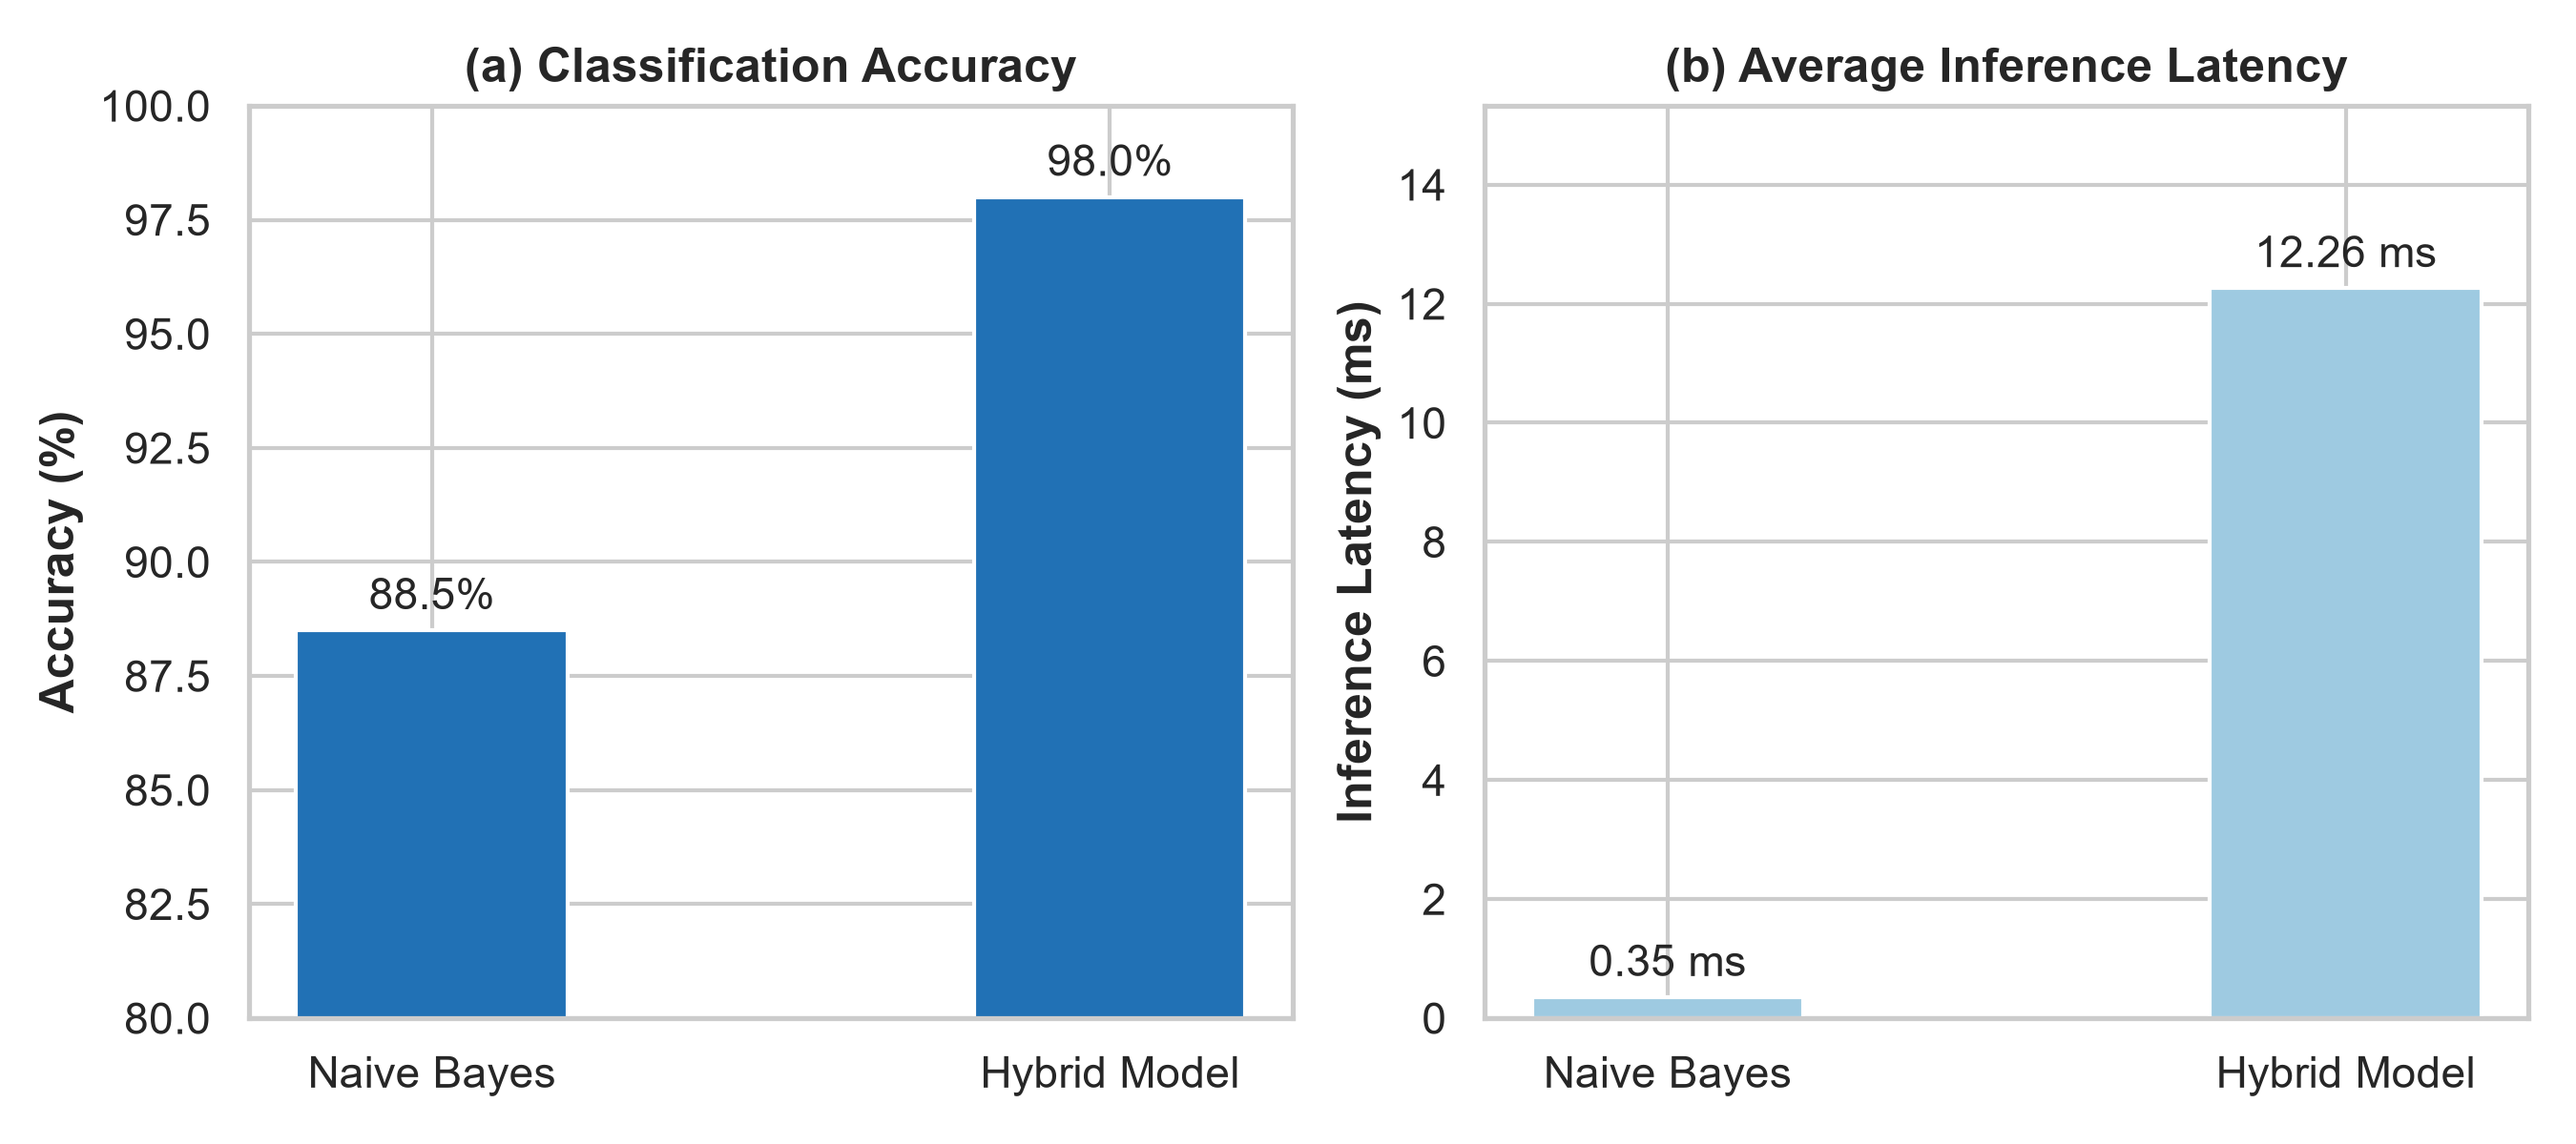
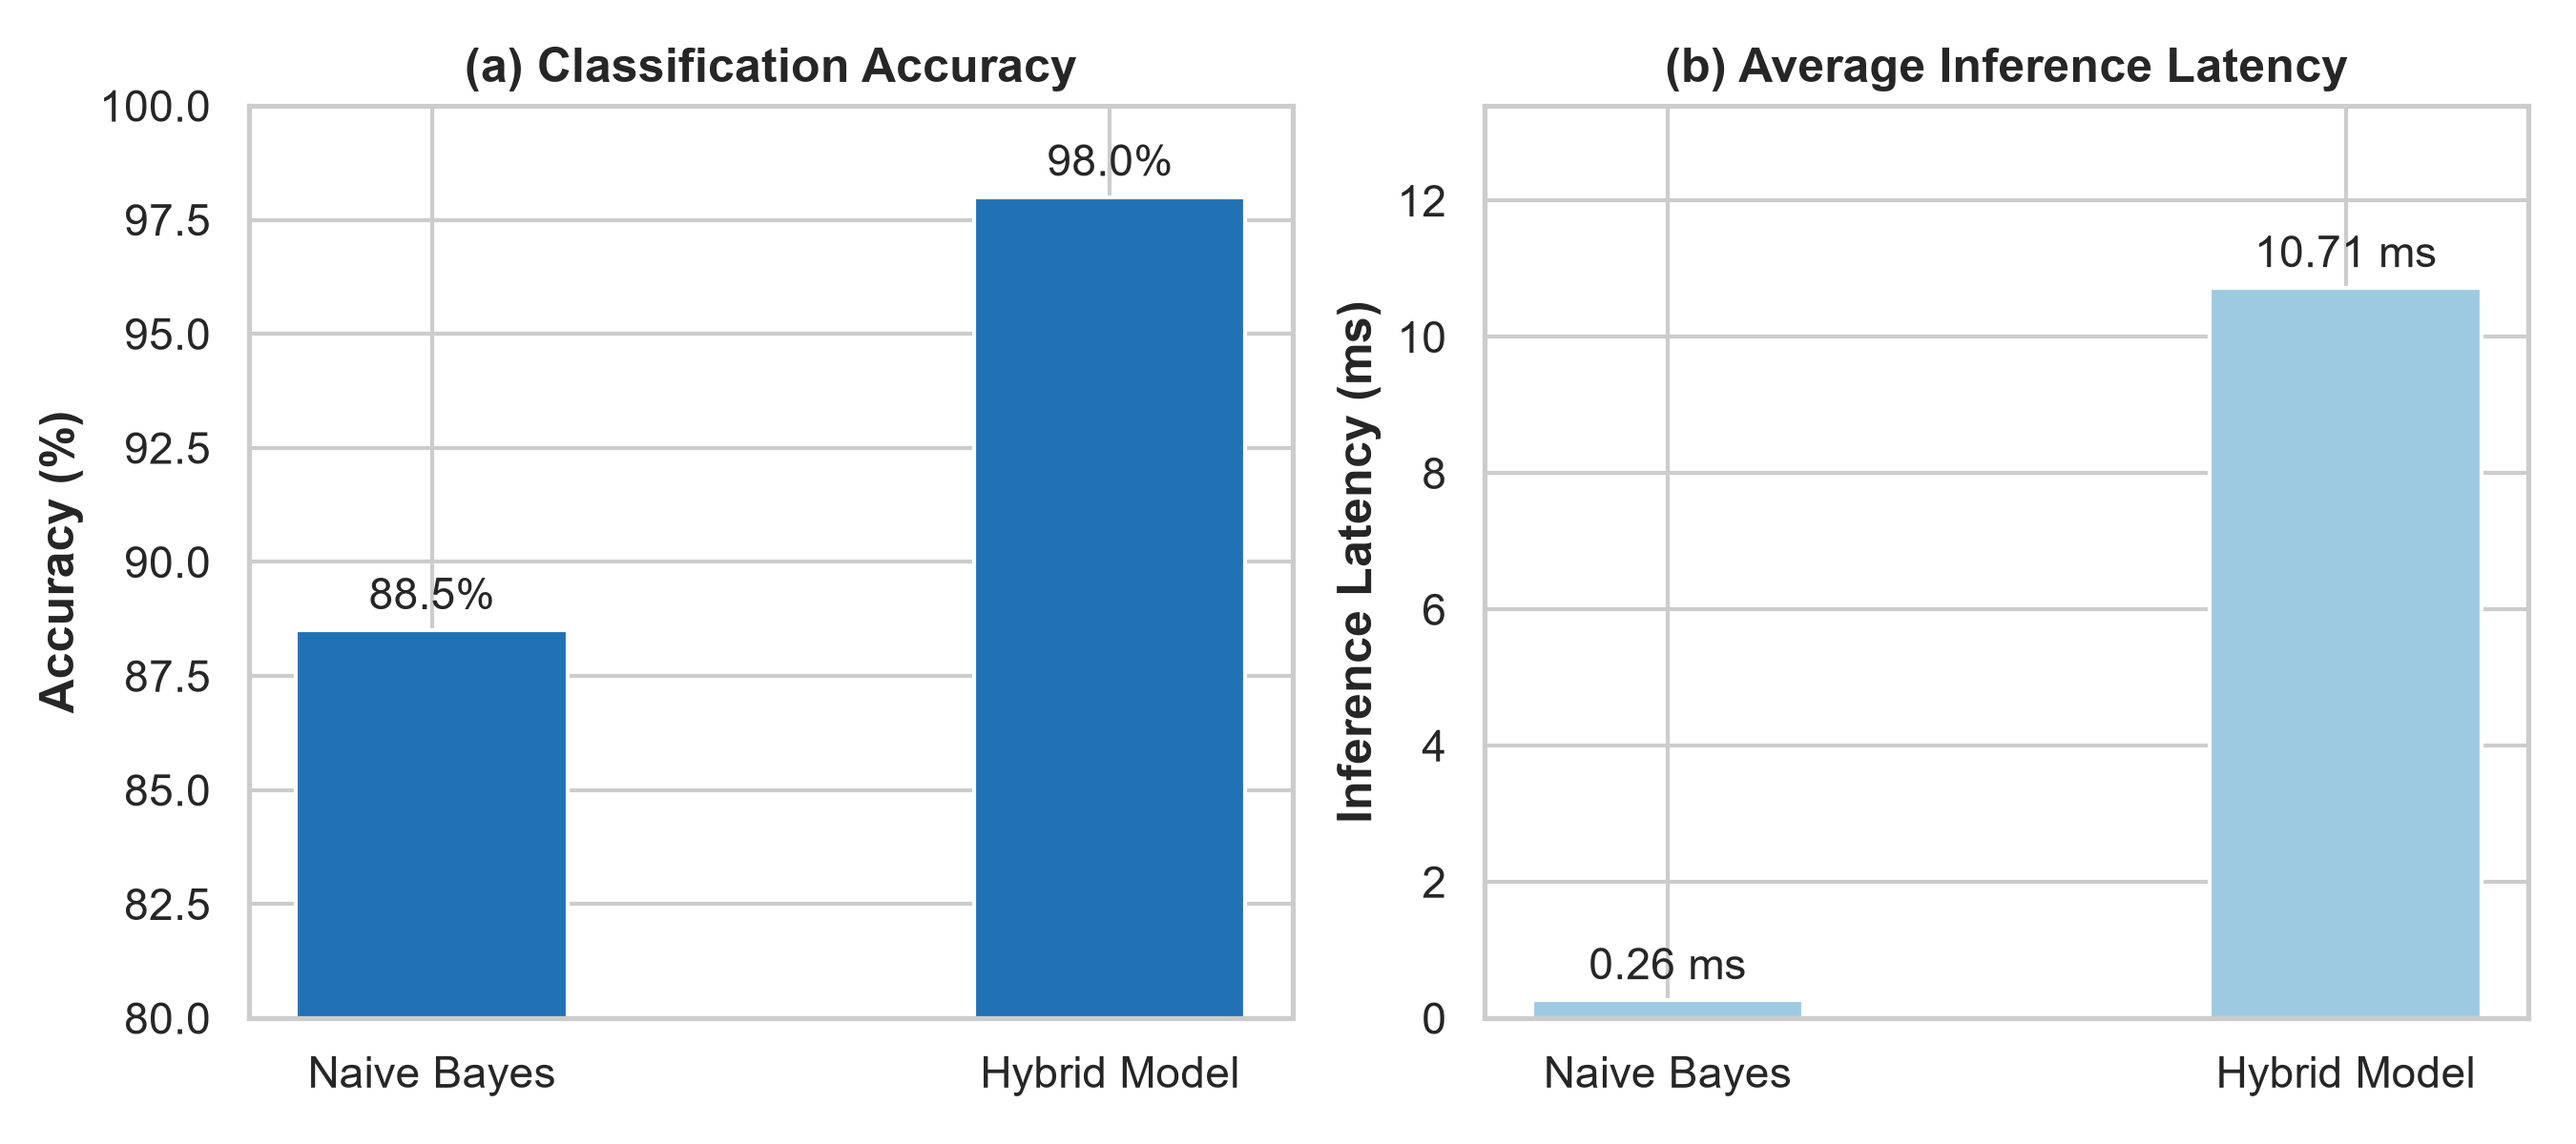
update evaluate and plot

diff --git a/evaluate_and_plot.py b/evaluate_and_plot.py
@@ -11,15 +11,12 @@ from sklearn.metrics import (
     confusion_matrix
 )
 
-# Import the project's real intent prediction function.
 from src.chatbot.intent_classifier import predict_class
 from src.chatbot.paths import INTENTS_PATH
 
-# ------------------------------------------------------------------------------
-# 1. Load the labeled evaluation data used by the chatbot
-# ------------------------------------------------------------------------------
+
 def load_test_dataset():
-    """Use every labeled pattern in intents.json as a ground-truth example."""
+    """Load intent patterns and normalize target class names."""
     with Path(INTENTS_PATH).open("r", encoding="utf-8") as file:
         intent_config = json.load(file)
 
@@ -28,52 +25,43 @@ def load_test_dataset():
         tag = intent.get("tag")
         for pattern in intent.get("patterns", []):
             if isinstance(pattern, str) and pattern.strip() and tag:
-                dataset.append((pattern, tag))
+                dataset.append((pattern, tag.lower()))
 
     if not dataset:
         raise ValueError(f"No labeled patterns found in {INTENTS_PATH}")
 
-    return dataset, [intent["tag"] for intent in intent_config["intents"]]
+    intent_classes = [intent["tag"].lower() for intent in intent_config["intents"]]
+    return dataset, intent_classes
 
 
 TEST_DATASET, INTENT_CLASSES = load_test_dataset()
 
-# ------------------------------------------------------------------------------
-# 2. Dynamic inference and evaluation function
-# ------------------------------------------------------------------------------
-def evaluate_model(algorithm_name):
-    y_true = []
-    y_pred = []
-    latencies = []
 
-    print(f"⏳ Running dynamic evaluation for algorithm: '{algorithm_name}'...")
+def evaluate_model(algorithm_name):
+    """Evaluate accuracy, macro metrics, per-class F1, and latency."""
+    y_true, y_pred, latencies = [], [], []
+
+    print(f"Evaluating algorithm: '{algorithm_name}'...")
 
     for query, true_intent in TEST_DATASET:
-        # Measure the exact runtime in milliseconds.
         start_time = time.perf_counter()
         predictions = predict_class(query, algorithm=algorithm_name)
         end_time = time.perf_counter()
         
-        latency_ms = (end_time - start_time) * 1000
+        latencies.append((end_time - start_time) * 1000)
+        pred_intent = predictions[0][0] if predictions else "n/a"
 
-        pred_intent = predictions[0][0] if predictions else "N/A"
-
-        y_true.append(true_intent.lower())
+        y_true.append(str(true_intent).lower())
         y_pred.append(str(pred_intent).lower())
-        latencies.append(latency_ms)
 
-    # Calculate metrics from the live predictions.
     acc = accuracy_score(y_true, y_pred)
-    prec, rec, f1, _ = precision_recall_fscore_support(y_true, y_pred, average="macro", zero_division=0)
-    
-    # Calculate the F1 score for each intent class.
+    prec, rec, f1, _ = precision_recall_fscore_support(
+        y_true, y_pred, labels=INTENT_CLASSES, average="macro", zero_division=0
+    )
     _, _, f1_per_class, _ = precision_recall_fscore_support(
         y_true, y_pred, labels=INTENT_CLASSES, average=None, zero_division=0
     )
-    
-    # Calculate the normalized confusion matrix.
     cm = confusion_matrix(y_true, y_pred, labels=INTENT_CLASSES, normalize="true")
-    avg_latency = np.mean(latencies)
 
     return {
         "acc": acc,
@@ -82,26 +70,25 @@ def evaluate_model(algorithm_name):
         "f1": f1,
         "f1_per_class": f1_per_class,
         "cm": cm,
-        "avg_latency": avg_latency
+        "avg_latency": np.mean(latencies)
     }
 
-# ------------------------------------------------------------------------------
-# 3. Run the live evaluation
-# ------------------------------------------------------------------------------
+
+# Execute evaluation
 nb_res = evaluate_model("nb")
 hybrid_res = evaluate_model("hybrid")
 
-print("\n=== Summary of Measured Results ===")
-print(f"Naive Bayes -> Acc: {nb_res['acc']:.3f}, Latency: {nb_res['avg_latency']:.2f} ms")
-print(f"Hybrid Model -> Acc: {hybrid_res['acc']:.3f}, Latency: {hybrid_res['avg_latency']:.2f} ms\n")
+print("\n=== Summary of Results ===")
+print(f"Naive Bayes -> Acc: {nb_res['acc']:.3f}, Macro F1: {nb_res['f1']:.3f}, Latency: {nb_res['avg_latency']:.2f} ms")
+print(f"Hybrid Model -> Acc: {hybrid_res['acc']:.3f}, Macro F1: {hybrid_res['f1']:.3f}, Latency: {hybrid_res['avg_latency']:.2f} ms\n")
 
-# ------------------------------------------------------------------------------
-# 4. Plot charts from the measured data
-# ------------------------------------------------------------------------------
+# Global style configurations
 sns.set_theme(style="whitegrid")
 plt.rcParams.update({"font.sans-serif": "Arial", "font.size": 11, "figure.autolayout": True})
 
-# --- Figure 1: Overall measured metrics comparison ---
+display_classes = [i.replace("_", " ").title() for i in INTENT_CLASSES]
+
+# Figure 1: Overall Performance Metrics Comparison
 metrics = ["Accuracy", "Precision", "Recall", "F1-Score"]
 nb_scores = [nb_res["acc"], nb_res["prec"], nb_res["rec"], nb_res["f1"]]
 hybrid_scores = [hybrid_res["acc"], hybrid_res["prec"], hybrid_res["rec"], hybrid_res["f1"]]
@@ -124,24 +111,24 @@ ax1.bar_label(r2, fmt='%.3f', padding=3, fontsize=9)
 plt.savefig("Fig1_Real_Overall_Metrics.png", dpi=300)
 plt.close()
 
-# --- Figure 2: Measured confusion matrices ---
-fig2, (ax2a, ax2b) = plt.subplots(1, 2, figsize=(11, 4.8))
+# Figure 2: Confusion Matrices
+fig2, (ax2a, ax2b) = plt.subplots(1, 2, figsize=(12, 5))
 sns.heatmap(nb_res["cm"], annot=True, fmt=".2f", cmap="Blues", cbar=False,
-            xticklabels=INTENT_CLASSES, yticklabels=INTENT_CLASSES, ax=ax2a)
+            xticklabels=display_classes, yticklabels=display_classes, ax=ax2a)
 ax2a.set_title("(a) Measured Naive Bayes CM", fontweight='bold')
 ax2a.set_xlabel("Predicted")
 ax2a.set_ylabel("True")
 
 sns.heatmap(hybrid_res["cm"], annot=True, fmt=".2f", cmap="Blues", cbar=False,
-            xticklabels=INTENT_CLASSES, yticklabels=INTENT_CLASSES, ax=ax2b)
+            xticklabels=display_classes, yticklabels=display_classes, ax=ax2b)
 ax2b.set_title("(b) Measured Hybrid Model CM", fontweight='bold')
 ax2b.set_xlabel("Predicted")
 
 plt.savefig("Fig2_Real_Confusion_Matrices.png", dpi=300)
 plt.close()
 
-# --- Figure 3: Measured per-class F1 comparison ---
-fig3, ax3 = plt.subplots(figsize=(8, 4.5))
+# Figure 3: Per-Intent F1 Breakdown
+fig3, ax3 = plt.subplots(figsize=(8, 5))
 y = np.arange(len(INTENT_CLASSES))
 r3a = ax3.barh(y + width/2, nb_res["f1_per_class"], width, label="Naive Bayes", color="#9ecae1")
 r3b = ax3.barh(y - width/2, hybrid_res["f1_per_class"], width, label="Hybrid Model", color="#08519c")
@@ -149,21 +136,16 @@ r3b = ax3.barh(y - width/2, hybrid_res["f1_per_class"], width, label="Hybrid Mod
 ax3.set_xlabel("F1-Score")
 ax3.set_title("Figure 3: Measured Per-Intent F1-Score Breakdown", fontweight='bold')
 ax3.set_yticks(y)
-ax3.set_yticklabels([i.capitalize() for i in INTENT_CLASSES])
+ax3.set_yticklabels(display_classes)
 ax3.set_xlim(0.0, 1.05)
-ax3.legend(
-    loc="upper center",
-    bbox_to_anchor=(0.5, -0.14),
-    ncol=2,
-    frameon=True,
-)
+ax3.legend(loc="upper center", bbox_to_anchor=(0.5, -0.14), ncol=2, frameon=True)
 ax3.bar_label(r3a, fmt='%.2f', padding=3, fontsize=9)
 ax3.bar_label(r3b, fmt='%.2f', padding=3, fontsize=9)
 fig3.subplots_adjust(bottom=0.22)
 plt.savefig("Fig3_Real_Per_Intent_F1.png", dpi=300)
 plt.close()
 
-# --- Figure 4: Measured accuracy and latency ---
+# Figure 4: Accuracy & Latency Trade-Off
 fig4, (ax4a, ax4b) = plt.subplots(1, 2, figsize=(9, 4))
 models = ["Naive Bayes", "Hybrid Model"]
 accs = [nb_res["acc"] * 100, hybrid_res["acc"] * 100]
@@ -177,7 +159,8 @@ ax4a.bar_label(bars1, fmt='%.1f%%', padding=3)
 
 bars2 = ax4b.bar(models, lats, color='#9ecae1', width=0.4)
 ax4b.set_ylabel("Inference Latency (ms)", fontweight='bold')
-ax4b.set_ylim(0, max(lats) * 1.25 if lats else 1)
+max_lat = max(lats) if lats else 1.0
+ax4b.set_ylim(0, max(max_lat * 1.25, 1.0))
 ax4b.set_title("(b) Average Inference Latency", fontweight='bold')
 ax4b.bar_label(bars2, fmt='%.2f ms', padding=3)
 
@@ -185,4 +168,4 @@ fig4.tight_layout()
 plt.savefig("Fig4_Improved_Subplots.png", dpi=300)
 plt.close()
 
-print("✅ All charts have been calculated and generated based on your actual algorithm execution results!")
+print("Execution complete. All evaluation charts generated.")
